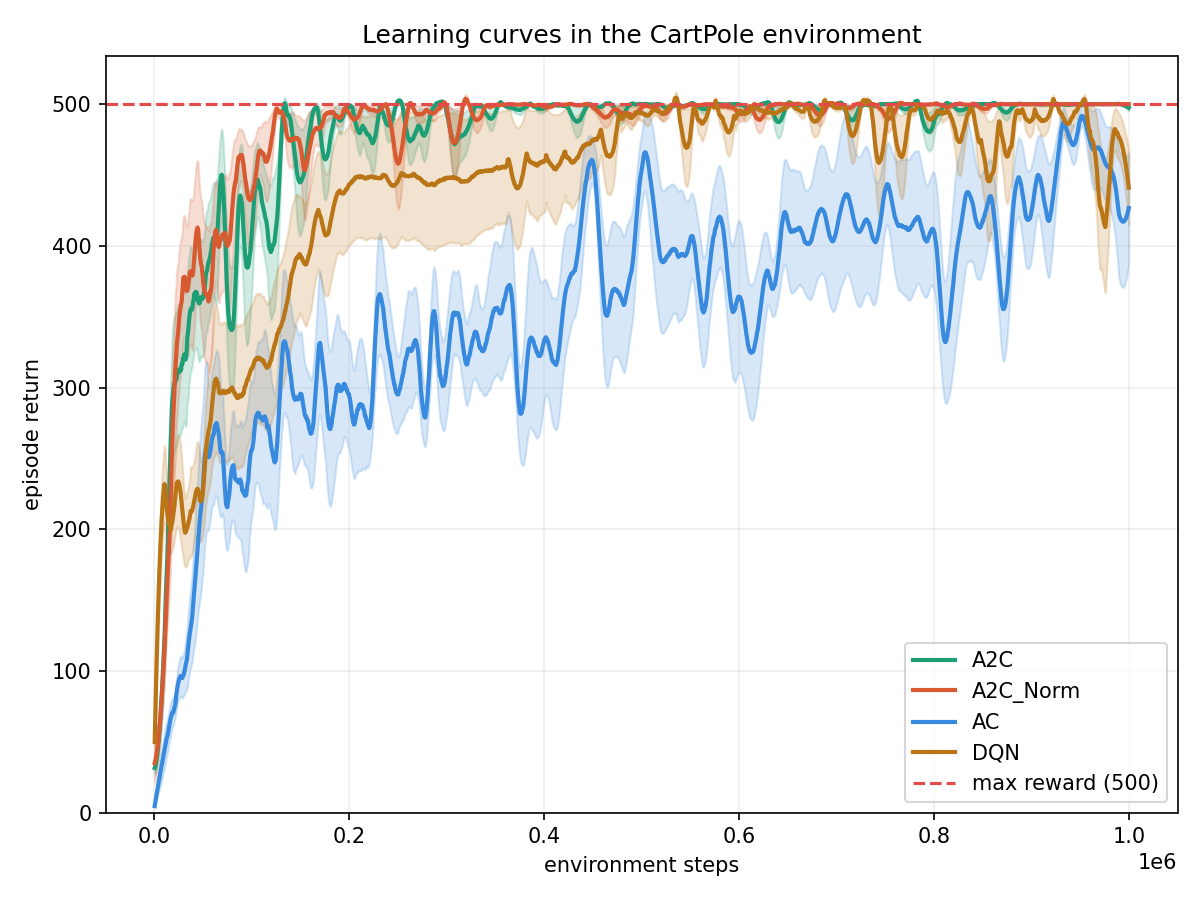
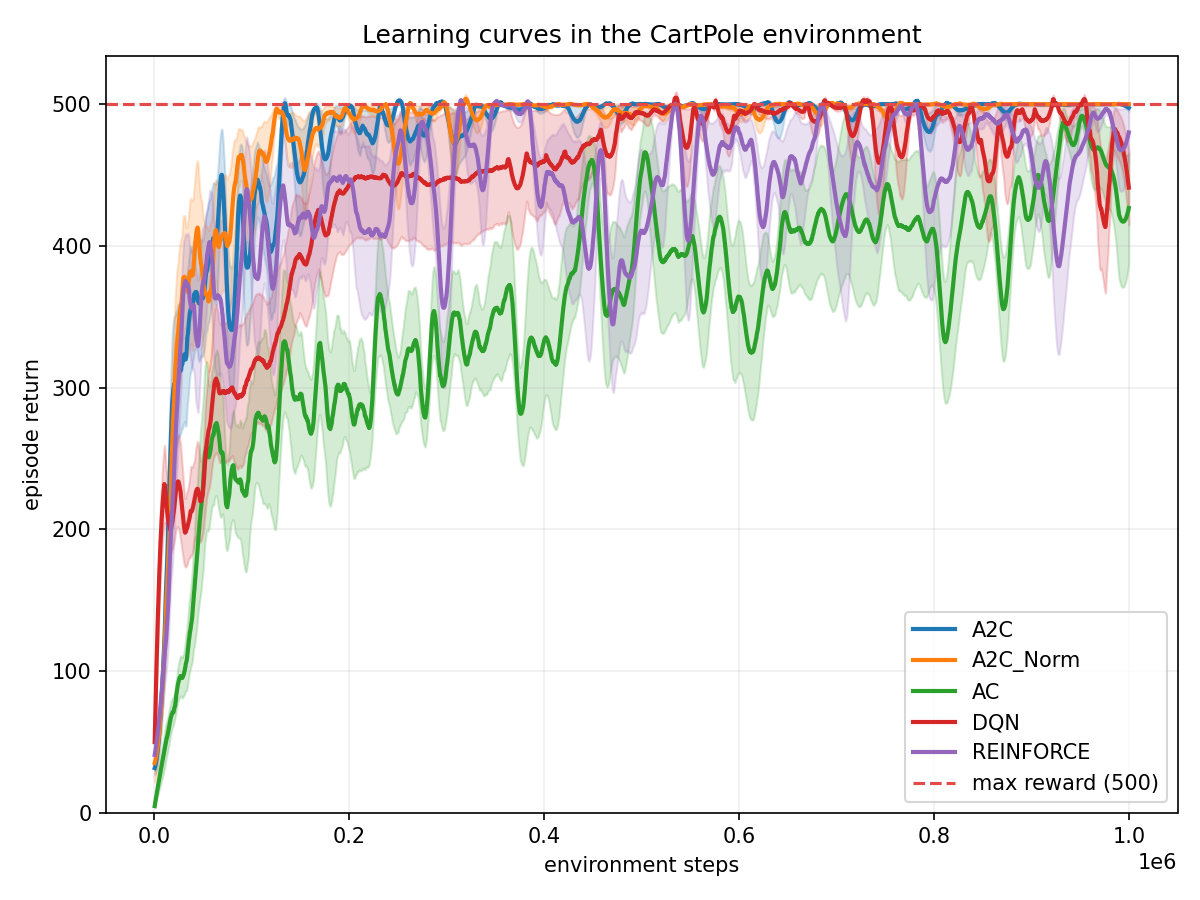
update to color palatte

Changed region(s): [[0.1233, 0.0933, 0.9558, 0.9022], [0.74, 0.6844, 0.8942, 0.84]]

diff --git a/experiment.py b/experiment.py
@@ -95,7 +95,7 @@ def plot_full_runs(solved_threshold=500, num_repetitions = 5):
         index +=1
     #define smoothing window
     smoothing_window = 81
-    colors = ["#1D9E75", "#D85A30", "#378ADD", "#BA7517"]
+    colors = ["#1f77b4","#ff7f0e","#2ca02c","#d62728","#9467bd"]
     fig, ax = plt.subplots(figsize=(8, 6))
     #plot for every item collected, adding smoothing with a savgol_filter
     for item, color in zip(items, colors):
